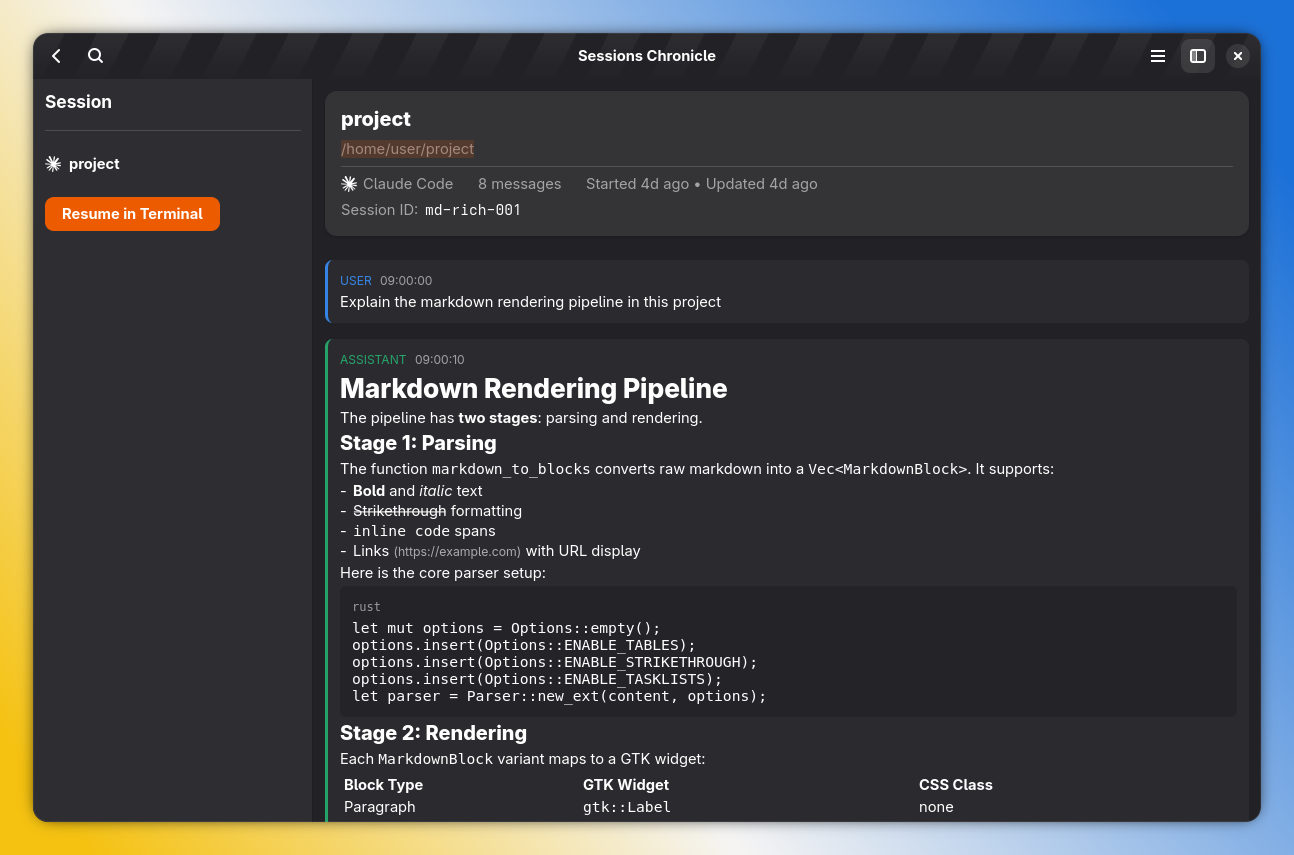
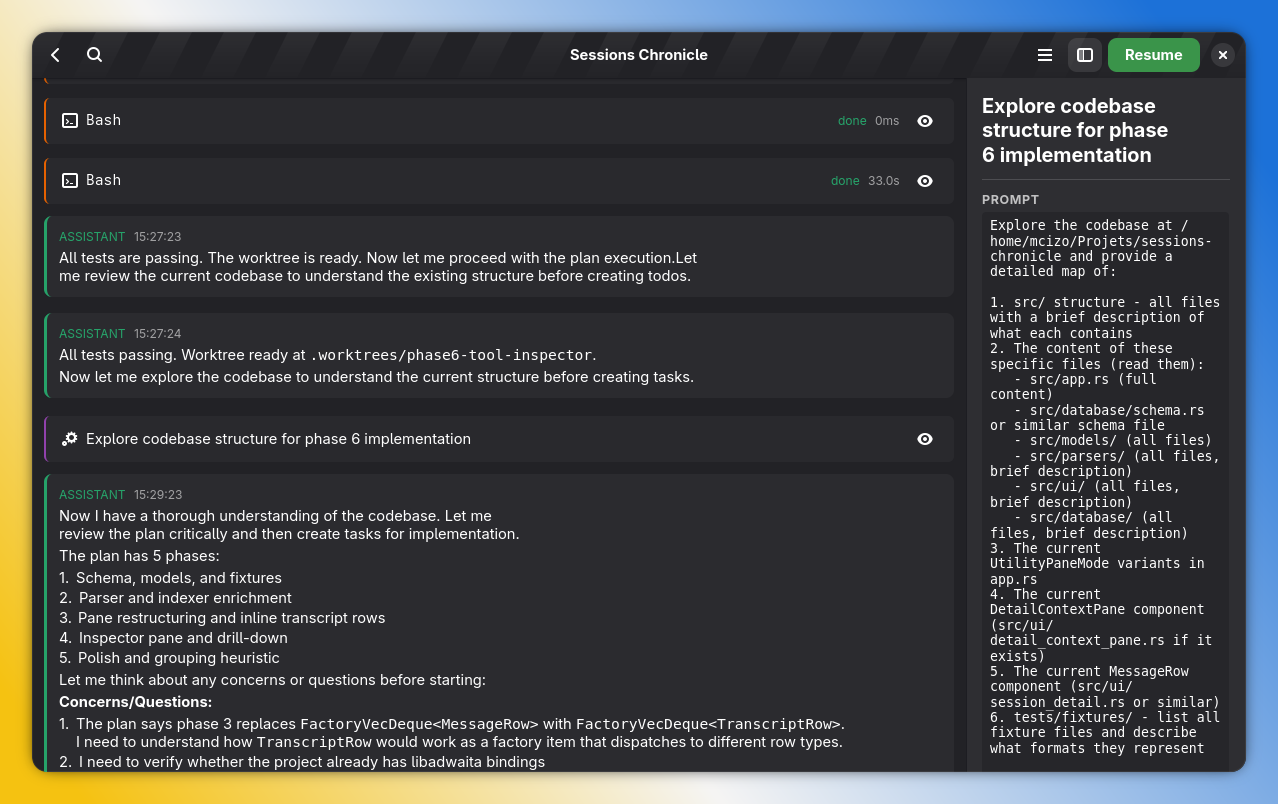
docs: update status and workflow docs for Phase 6 completion
Mark Phase 6 (tool calls & subagents inspector, PR #36) as complete.
Update project structure, DB schema, shipped features list, and CI
table to reflect the current state of the codebase.

diff --git a/docs/PROJECT_STATUS.md b/docs/PROJECT_STATUS.md
@@ -4,7 +4,7 @@
 
 ---
 
-## Current Status: Phase 6 — Tool Calls & Subagents
+## Current Status: Phase 6 — Complete
 
 ### ✅ Completed
 
@@ -27,6 +27,7 @@
 - ✅ Utility pane with filters/session-context modes and in-pane resume action (PR #27)
 - ✅ Session row redesign: first prompt title, project-aware subtitle, relative timestamps, row context menu resume (PR #30)
 - ✅ Inline expand/collapse for truncated messages with on-demand full content loading (PR #35)
+- ✅ Tool calls & subagents inspector: inline expander rows, ToolInspector utility pane, subagent drill-down (PR #36)
 
 **Dependencies**
 - ✅ Relm4 (reactive UI framework)
@@ -88,13 +89,13 @@
 - ✅ Load full content on demand from DB with caching
 - ✅ Toggle button replacing static "(content truncated)" badge
 
-**Phase 6: Tool Calls & Subagents** - Planned ([design](plans/2026-02-18-tool-calls-and-subagents-utility-pane-design.md))
+**Phase 6: Tool Calls & Subagents** - Complete ([design](plans/2026-02-18-tool-calls-and-subagents-utility-pane-design.md), PR #36)
 - Legacy plan kept for history: [2026-01-30-tool-calls-and-subagents-design.md](plans/2026-01-30-tool-calls-and-subagents-design.md) (superseded)
-- ⬜ Add phase 6 schema for transcript artifacts (`parent_session_id`, `is_subagent`, `transcript_items`, `tool_calls`, `subagents`)
-- ⬜ Parse and correlate tool calls/results across Claude Code, Codex, OpenCode, and Mistral Vibe
-- ⬜ Add inline expander rows for tool calls and subagents in SessionDetail
-- ⬜ Add ToolInspector utility pane mode (non-modal inspection + subagent drill-down)
-- ⬜ Add tests for parser correlation, DB ordering, and inspector interaction flows
+- ✅ Add phase 6 schema for transcript artifacts (`parent_session_id`, `is_subagent`, `transcript_items`, `tool_calls`, `subagents`)
+- ✅ Parse and correlate tool calls/results across Claude Code, Codex, OpenCode, and Mistral Vibe
+- ✅ Add inline expander rows for tool calls and subagents in SessionDetail
+- ✅ Add ToolInspector utility pane mode (non-modal inspection + subagent drill-down)
+- ✅ Add tests for parser correlation, DB ordering, and inspector interaction flows
 
 **Next Features?** - Future
 - Syntax highlighting for code blocks (syntect)
@@ -133,7 +134,10 @@ sessions-chronicle/
 │   ├── models/           # Data models
 │   │   ├── session.rs         # Session, Tool
 │   │   ├── message.rs         # Message, Role
-│   │   └── message_preview.rs # MessagePreview for UI
+│   │   ├── message_preview.rs # MessagePreview for UI
+│   │   ├── tool_call.rs       # ToolCall model
+│   │   ├── subagent.rs        # Subagent model
+│   │   └── transcript_item.rs # TranscriptItem (ordered view)
 │   ├── parsers/          # Session file parsers
 │   │   ├── claude_code.rs   # Claude Code JSONL parser
 │   │   ├── codex.rs         # Codex JSONL parser
@@ -144,14 +148,15 @@ sessions-chronicle/
 │   │   ├── indexer.rs    # Index sessions
 │   │   └── mod.rs        # load_session, search_sessions
 │   ├── ui/               # UI components (Relm4)
-│   │   ├── detail_context_pane.rs # Session context utility pane
+│   │   ├── tool_inspector_pane.rs # ToolInspector utility pane (tool calls + subagents)
+│   │   ├── transcript_row.rs      # Transcript row component (messages, tool calls, subagents)
 │   │   ├── highlight.rs  # Search term highlighting helpers
 │   │   ├── markdown.rs   # Markdown parser and GTK renderer
-│   │   ├── message_row.rs # Message row component
-│   │   ├── sidebar.rs    # Tool/project filters
+│   │   ├── format.rs     # Shared formatting helpers
 │   │   ├── session_list.rs  # Session list view
 │   │   ├── session_detail.rs # Session detail/transcript view
 │   │   ├── session_row.rs # Session list row component
+│   │   ├── sidebar.rs    # Tool/project filters
 │   │   ├── modals/
 │   │   │   ├── about.rs      # About dialog
 │   │   │   ├── preferences.rs # Preferences dialog (terminal settings, index reset)
@@ -177,7 +182,7 @@ sessions-chronicle/
 
 ### Database Schema
 
-**sessions** table:
+**sessions** table (v1):
 ```sql
 CREATE TABLE sessions (
     id TEXT PRIMARY KEY,
@@ -187,7 +192,9 @@ CREATE TABLE sessions (
     message_count INTEGER NOT NULL,
     file_path TEXT NOT NULL,
     last_updated INTEGER NOT NULL,
-    first_prompt TEXT
+    first_prompt TEXT,
+    parent_session_id TEXT,           -- added in v1
+    is_subagent INTEGER NOT NULL DEFAULT 0  -- added in v1
 );
 ```
 
@@ -199,6 +206,54 @@ CREATE VIRTUAL TABLE messages USING fts5(
     role UNINDEXED,
     content,              -- searchable
     timestamp UNINDEXED
+);
+```
+
+**transcript_items** table (v1):
+```sql
+CREATE TABLE transcript_items (
+    session_id TEXT NOT NULL,
+    item_index INTEGER NOT NULL,
+    kind TEXT NOT NULL,
+    message_index INTEGER,
+    tool_call_id TEXT,
+    subagent_id TEXT,
+    PRIMARY KEY (session_id, item_index)
+);
+```
+
+**tool_calls** table (v1):
+```sql
+CREATE TABLE tool_calls (
+    id TEXT NOT NULL,
+    session_id TEXT NOT NULL,
+    subagent_id TEXT,
+    tool_name TEXT NOT NULL,
+    status TEXT NOT NULL,
+    title TEXT,
+    summary TEXT,
+    input_json TEXT,
+    output_text TEXT,
+    error_text TEXT,
+    started_at INTEGER,
+    ended_at INTEGER,
+    duration_ms INTEGER,
+    parser_call_id TEXT,
+    PRIMARY KEY (session_id, id)
+);
+```
+
+**subagents** table (v1):
+```sql
+CREATE TABLE subagents (
+    id TEXT NOT NULL,
+    session_id TEXT NOT NULL,
+    title TEXT NOT NULL,
+    prompt TEXT,
+    result_summary TEXT,
+    child_session_id TEXT,
+    parser_ref TEXT,
+    PRIMARY KEY (session_id, id)
 );
 ```
 
@@ -342,6 +397,6 @@ cargo test
 
 ---
 
-**Last Updated**: 2026-02-18
-**Current Phase**: Phase 6 — Tool Calls & Subagents
-**Next Milestone**: Phase 6 — Tool Calls & Subagents
+**Last Updated**: 2026-02-19
+**Current Phase**: Phase 6 — Complete
+**Next Milestone**: See "Next Features?" above

diff --git a/docs/DEVELOPMENT_WORKFLOW.md b/docs/DEVELOPMENT_WORKFLOW.md
@@ -189,6 +189,7 @@ The project uses GitHub Actions for continuous integration and releases. Workflo
 | **Tests** | `cargo test` (under Xvfb for GTK) |
 | **Clippy** | `cargo clippy -- -D warnings` |
 | **Rustfmt** | `cargo fmt --all -- --check` |
+| **Coverage** | `cargo llvm-cov` → LCOV report uploaded to Codecov |
 | **Flatpak** | Builds the dev Flatpak bundle |
 
 ### Release (`release.yml`) — runs when a GitHub release is published
@@ -213,4 +214,4 @@ Two Flatpak manifests exist in `build-aux/`:
 
 ---
 
-**Last Updated**: 2026-02-15
+**Last Updated**: 2026-02-19
